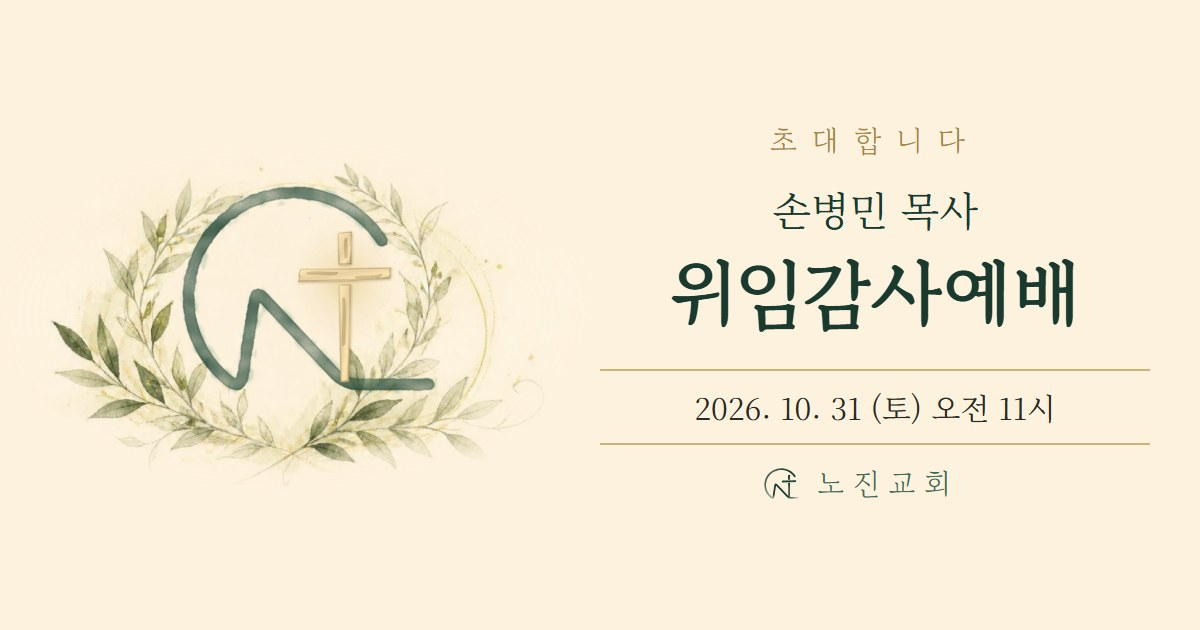
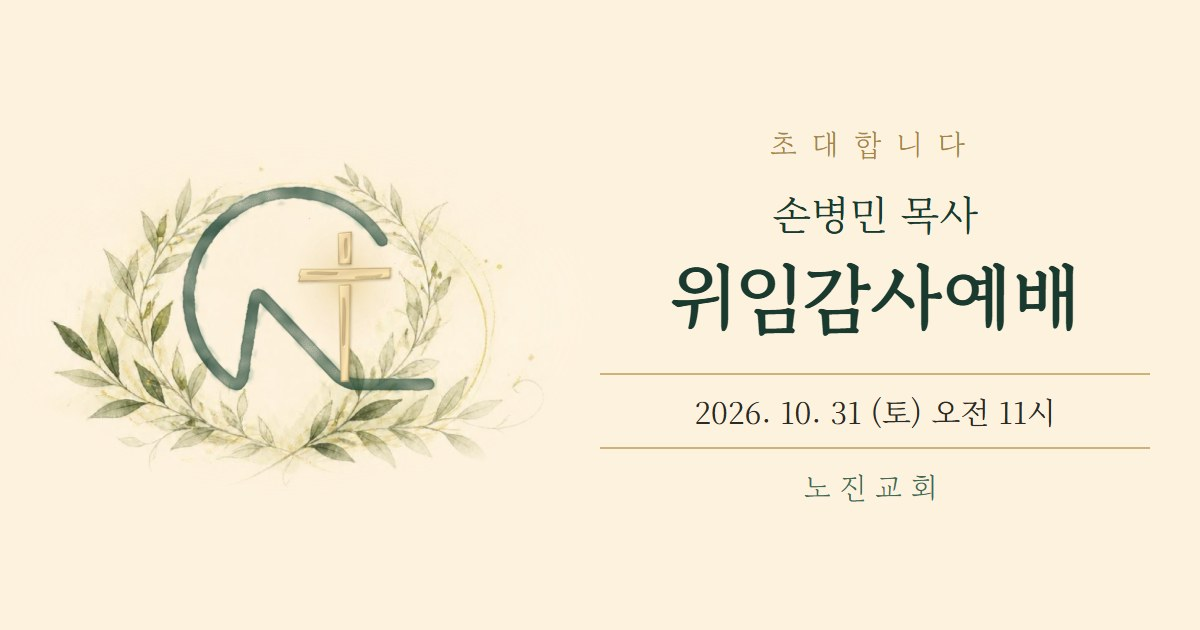
위임식 초대장: 약력 줄여 한 줄씩(계명대 철학과 / 총신대 신대원(105회) / 총신대 신학대학원 Th.M(과정 중)), 예배 시간 두 줄, 표지 '노진교회당' 옆 로고 뺌, 모시는 글에서 '노진교회가 손병민 목사를 담임목사로 모시고' 뺌(모시고 겹침) — 목사님

diff --git a/invite/index.html b/invite/index.html
@@ -76,7 +76,7 @@ p { margin: 0; line-height: 1.7; }
 .about { text-align: center; font-size: .97rem; color: var(--ink); }
 .name { text-align: center; font-family: var(--batang); font-size: 1.35rem; color: var(--green); margin: 4px 0 0; }
 .rows { display: grid; gap: 6px; }
-:root { --bio-fs: clamp(.7rem, 3.25vw, .9rem); }
+:root { --bio-fs: clamp(.82rem, 3.7vw, .95rem); }
 .bio { display: grid; gap: 6px; padding: 12px 12px; background: #FFF9EE; border: 1px solid var(--line); border-radius: 12px; }
 .bio .bio-name { font-family: var(--batang); color: var(--green); font-size: 1rem; margin: 0 0 2px; }
 /* 한 항목은 한 줄에(줄바꿈 없이), 항목끼리는 위아래로 붙여서 */
@@ -133,13 +133,13 @@ a:focus-visible, button:focus-visible { outline: 3px solid var(--gold-l); outlin
     <p class="who">손병민 목사</p>
     <h1>위임감사예배</h1>
     <div class="when">2026년 10월 31일 토요일 오전 11시</div>
-    <p class="where"><span class="nj"><img src="logo.svg" alt="" />노진교회당</span></p>
+    <p class="where">노진교회당</p>
     <p class="dday" id="dday"></p>
   </section>
 
   <section class="greet">
     <h2>모시는 글</h2>
-    <p>하나님의 크신 은혜 가운데<br />노진교회가 손병민 목사를<br />담임목사로 모시고<br />위임감사예배를 드리게 되었습니다.</p>
+    <p>하나님의 크신 은혜 가운데<br />위임감사예배를 드리게 되었습니다.</p>
     <p style="margin-top:10px">목사와 교우가 한마음으로<br />주님께 감사드리는 이 자리에<br />귀한 분들을 정중히 모시고자 합니다.</p>
     <p style="margin-top:10px">바쁘시더라도 부디 오셔서<br />자리를 빛내 주시고<br />축복하여 주시기를 바랍니다.</p>
     <div class="sign"><span>2026년 10월</span><span>대한예수교장로회 노진교회</span><b>담임목사 손병민 · 교우 일동</b><em>드림</em></div>
@@ -155,10 +155,10 @@ a:focus-visible, button:focus-visible { outline: 3px solid var(--gold-l); outlin
       <p class="about">평생 흙과 더불어 살아온 어르신들의 기도로<br />오래 지켜 온 시골 제단, 그리고 다음 세대를<br />품는 교회입니다.</p>
       <div class="rows">
         <div class="bio"><p class="bio-name">담임목사 <b>손병민</b></p>
-          <div class="bio-row"><i>학력</i><ul><li>계명대학교 철학과 졸업</li><li>총신대학교 신학대학원 졸업(105회)</li><li>총신대학교 신학대학원 성경주해 석사(Th.M) 과정 중</li></ul></div>
+          <div class="bio-row"><i>학력</i><ul><li>계명대 철학과</li><li>총신대 신대원(105회)</li><li>총신대 신학대학원 Th.M(과정 중)</li></ul></div>
           <div class="bio-row"><i>사역</i><ul><li>대구 사월교회</li><li>대구 반야월교회</li><li>대전 새로남교회</li><li>서울 장충교회</li></ul></div>
           <div class="bio-row"><i>가족</i><ul><li>아내 채애리 사모 · 아들 손필립</li></ul></div></div>
-        <div class="row"><b>예배</b><span>주일 낮 예배 오전 11시 · 찬양예배 오후 2시</span></div>
+        <div class="row"><b>예배</b><span>주일 낮 예배 오전 11시<br />주일 찬양예배 오후 2시</span></div>
         <div class="row"><b>누리집</b><span>nojin.kr</span></div>
       </div>
     </div>
